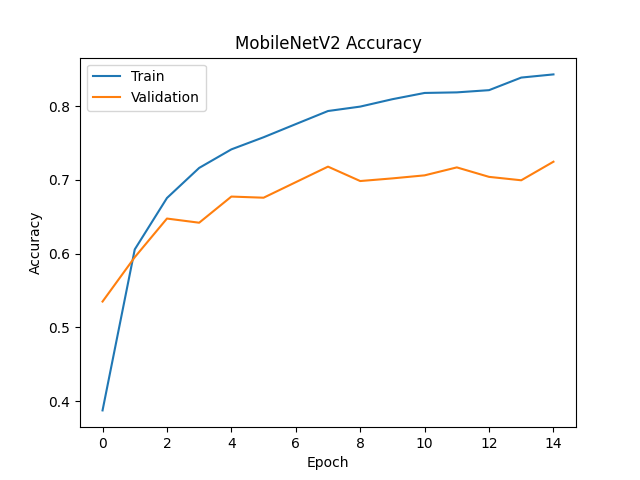
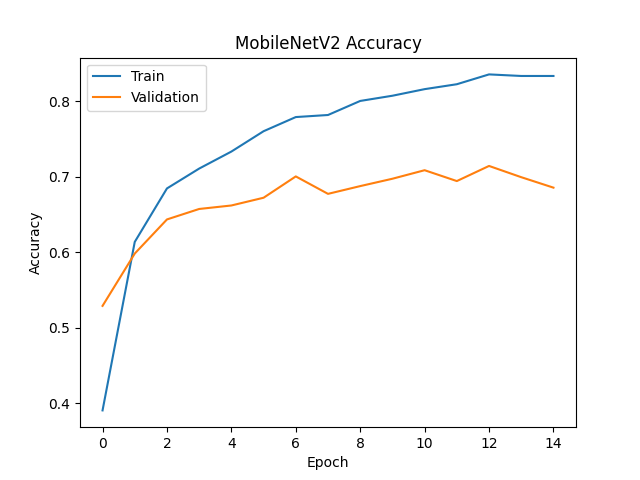
new results and small improvement in pipeline

diff --git a/main_video.py b/main_video.py
@@ -21,7 +21,9 @@ from tools.tools_constants import (
     BOOL_HSV,
     PATH_FRAMES_VIDEO,
     PATH_LIST_WORDS_CLEAN,
-    IMAGE_SIZE
+    IMAGE_SIZE,
+    BOOL_LAB,
+    BOOL_XYZ
 )
 from tools.tools_models import (
     create_mobilenetv2,
@@ -44,13 +46,22 @@ if MODEL_NAME == "mobilenetv2":
 elif MODEL_NAME == "cnn":
     model = create_cnn()
 
-path_to_save = PATH_MODELS + MODEL_NAME + '/E'+ str(NUMBER_EPOCHS)
+BOOL_LARGE_DATASET = True
+if BOOL_LARGE_DATASET:
+    add = "New_"
+else:
+    add = ""
+path_to_save = PATH_MODELS + MODEL_NAME + '/' + add + 'E'+ str(NUMBER_EPOCHS)
 if not BOOL_PREPROCESSING_BACKGROUND:
     path_to_save += "_background"
 if BOOL_PREPROCESSING_CONTOURS:
     path_to_save += "_contours"
 if BOOL_HSV:
     path_to_save += "_hsv"
+if BOOL_LAB:
+    path_to_save += "_lab"
+if BOOL_XYZ:
+    path_to_save += "_xyz"
 model.load_weights(path_to_save + "/")
 
 def predict_word_with_proba(proba_array, letters_array, nb_words_to_keep):

diff --git a/tools/tools_preprocessing.py b/tools/tools_preprocessing.py
@@ -22,7 +22,9 @@ import numpy as np
 ### Local imports ###
 
 from tools.tools_constants import (
-    PATH_TEST_DATASET
+    BOOL_HSV,
+    BOOL_LAB,
+    BOOL_XYZ
 )
 
 #################
@@ -45,8 +47,9 @@ def load_image(src, show = True):
     return rgb
 
 def gray_scale(img):
-    img_gray= cv2.cvtColor(img, cv2.COLOR_RGB2GRAY)
-    return img_gray
+    if not BOOL_HSV and not BOOL_XYZ and not BOOL_LAB:
+        img = cv2.cvtColor(img, cv2.COLOR_BGR2GRAY)
+    return img
 
 def calcul_histogram(I,color):
     for i,col in enumerate(color):

diff --git a/script_filter_videos.py b/script_filter_videos.py
@@ -22,6 +22,7 @@ from tools.tools_constants import (
 def clean_videos_with_z_and_j():
     with open(PATH_LIST_WORDS_CLEAN,"w") as file:
         for idx,word in enumerate(LIST_WORDS):
+            print(f"Processing {idx} {word}")
             save = True
             for letter in word:
                 if not letter.upper() in LIST_LETTERS_STATIC:

diff --git a/tools/tools_constants.py b/tools/tools_constants.py
@@ -55,10 +55,10 @@ BATCH_SIZE = 32
 
 MODEL_NAME = "mobilenetv2" # mobilenetv2 cnn
 TRAIN_MODE = True
-NUMBER_EPOCHS = 8
+NUMBER_EPOCHS = 15
 BOOL_PREPROCESSING_CONTOURS = True
 BOOL_HSV = False
-BOOL_XYZ = False
+BOOL_XYZ = True
 BOOL_LAB = False
 
 def get_5_words_list():

diff --git a/tools/tools_dataset.py b/tools/tools_dataset.py
@@ -8,6 +8,7 @@ Tools Python file to deal with the dataset.
 
 ### Python imports ###
 
+from ctypes.wintypes import BOOL
 import cv2
 import os
 import numpy as np

diff --git a/README.md b/README.md
@@ -69,7 +69,7 @@ For this work, we use several databases we obtained at different sources.
 The first dataset we use is the set downloadable on this [*Kaggle* notebook](https://www.kaggle.com/datasets/debashishsau/aslamerican-sign-language-aplhabet-dataset?resource=download). We removed to this dataset the letters j, z, space, delete and nothing, as the two first ones are in movement, whereas the three others are not interesting for our study case.
 Then we put both folders (train and test set) of the *zip* file in the folder `dataset/`.
 
-The second dataset we use is the set downloadable on this [site](https://public.roboflow.com/object-detection/american-sign-language-letters/1). We decided to use this one in addition to the first one to have more diversity in the results. Indeed, the results were significantly improved with the mixte of both datasets.
+The second dataset we use is the set downloadable on this [site](https://public.roboflow.com/object-detection/american-sign-language-letters/1). We decided to use this one in addition to the first one to have more diversity in the database. Indeed, the results were significantly improved with the mixte of both datasets.
 Then we put the folder containing three subfolders (`train`, `valid` and `test`) of the *zip* file in the folder `dataset/`.
 
 The third dataset we use is the set downloadable on this [site](https://data.mendeley.com/datasets/xs6mvhx6rh/1). We only used the images contained in the `images/` folder. Then for each subfolder `User_1/`, `User_2/`, `User_3/` and `User_4/` we removed the folders `fn/` and `sp/`.
@@ -127,7 +127,6 @@ MobileNetV2, 3 époques, contours, LAB: 61% d'accuracy, 81% d'accuracy sur 3
 MobileNetV2, 6 époques, contours : 69% d'accuracy, 88% d'accuracy sur 3
 
 MobileNetV2, 8 époques, contours : 71% d'accuracy, 88% d'accuracy sur 3
-MobileNetV2, 8 époques, sans contours, HSV, avec background : xx% d'accuracy, xx% d'accuracy sur 3
 MobileNetV2, 8 époques, sans contours, HSV : 51% d'accuracy, 78% d'accuracy sur 3
 MobileNetV2, 8 époques, contours, HSV : 64% d'accuracy, 82% d'accuracy sur 3
 MobileNetV2, 8 époques, contours, HSV, avec background : 35% d'accuracy, 56% d'accuracy sur 3
@@ -147,6 +146,8 @@ MobileNetV2, 10 époques, contours, HSV : 64% d'accuracy, 83% d'accuracy sur 3
 MobileNetV2, 10 époques, sans contours, HSV : 51% d'accuracy, 76% d'accuracy sur 3
 MobileNetV2, 10 époques, large dataset, contours : 69% d'accuracy, 88% d'accuracy sur 3
 
+MobileNetV2, 15 époques, large dataset, contours, RGB: 70% d'accuracy, 89% d'accuracy sur 3
+
 
 CNN temps d'entraînement sur 3 époques : 35 minutes
 
@@ -156,3 +157,9 @@ CNN, 3 époques, contours : 47% d'accuracy, 69% d'accuracy sur 3
 Résultats sur la vidéo :
 MobileNetV2, 8 époques, contours, anciens datasets : 95 mots bien retrouvés sur 295
 [10, 5, 9, 1, 8, 2, 5, 1, 6, 9, 1, 1, 3, 1, 1, 2, 1, 9, 1, 2, 2, 6, 3, 9, 5, 2, 3, 5, 2, 5, 1, 3, 10, 1, 3, 2, 5, 3, 2, 1, 3, 5, 5, 8, 10, 2, 5, 6, 1, 3, 2, 1, 1, 2, 1, 8, 10, 6, 2, 1, 4, 1, 1, 6, 1, 1, 3, 1, 7, 10, 2, 1, 10, 1, 5, 8, 3, 7, 4, 1, 5, 1, 4, 3, 6, 6, 2, 1, 9, 5, 2, 10, 2, 6, 1]
+
+
+MobileNetV2, 15 époques, contours, large datasets : 118 mots bien retrouvés sur 295
+[5, 4, 4, 3, 5, 1, 2, 2, 1, 1, 1, 9, 1, 1, 9, 5, 4, 10, 4, 1, 1, 4, 1, 2, 4, 3, 1, 2, 9, 10, 2, 1, 4, 1, 1, 2, 1, 10, 4, 3, 7, 8, 9, 5, 4, 5, 4, 2, 2, 1, 1, 8, 1, 1, 4, 2, 4, 1, 4, 6, 1, 1, 1, 1, 6, 1, 7, 1, 5, 9, 1, 6, 1, 5, 1, 10, 4, 9, 1, 1, 1, 7, 6, 1, 1, 7, 2, 3, 1, 1, 9, 10, 6, 6, 2, 7, 9, 3, 7, 7, 1, 2, 6, 1, 1, 5, 1, 1, 6, 9, 2, 1, 4, 7, 1, 5, 9, 1]
+
+
